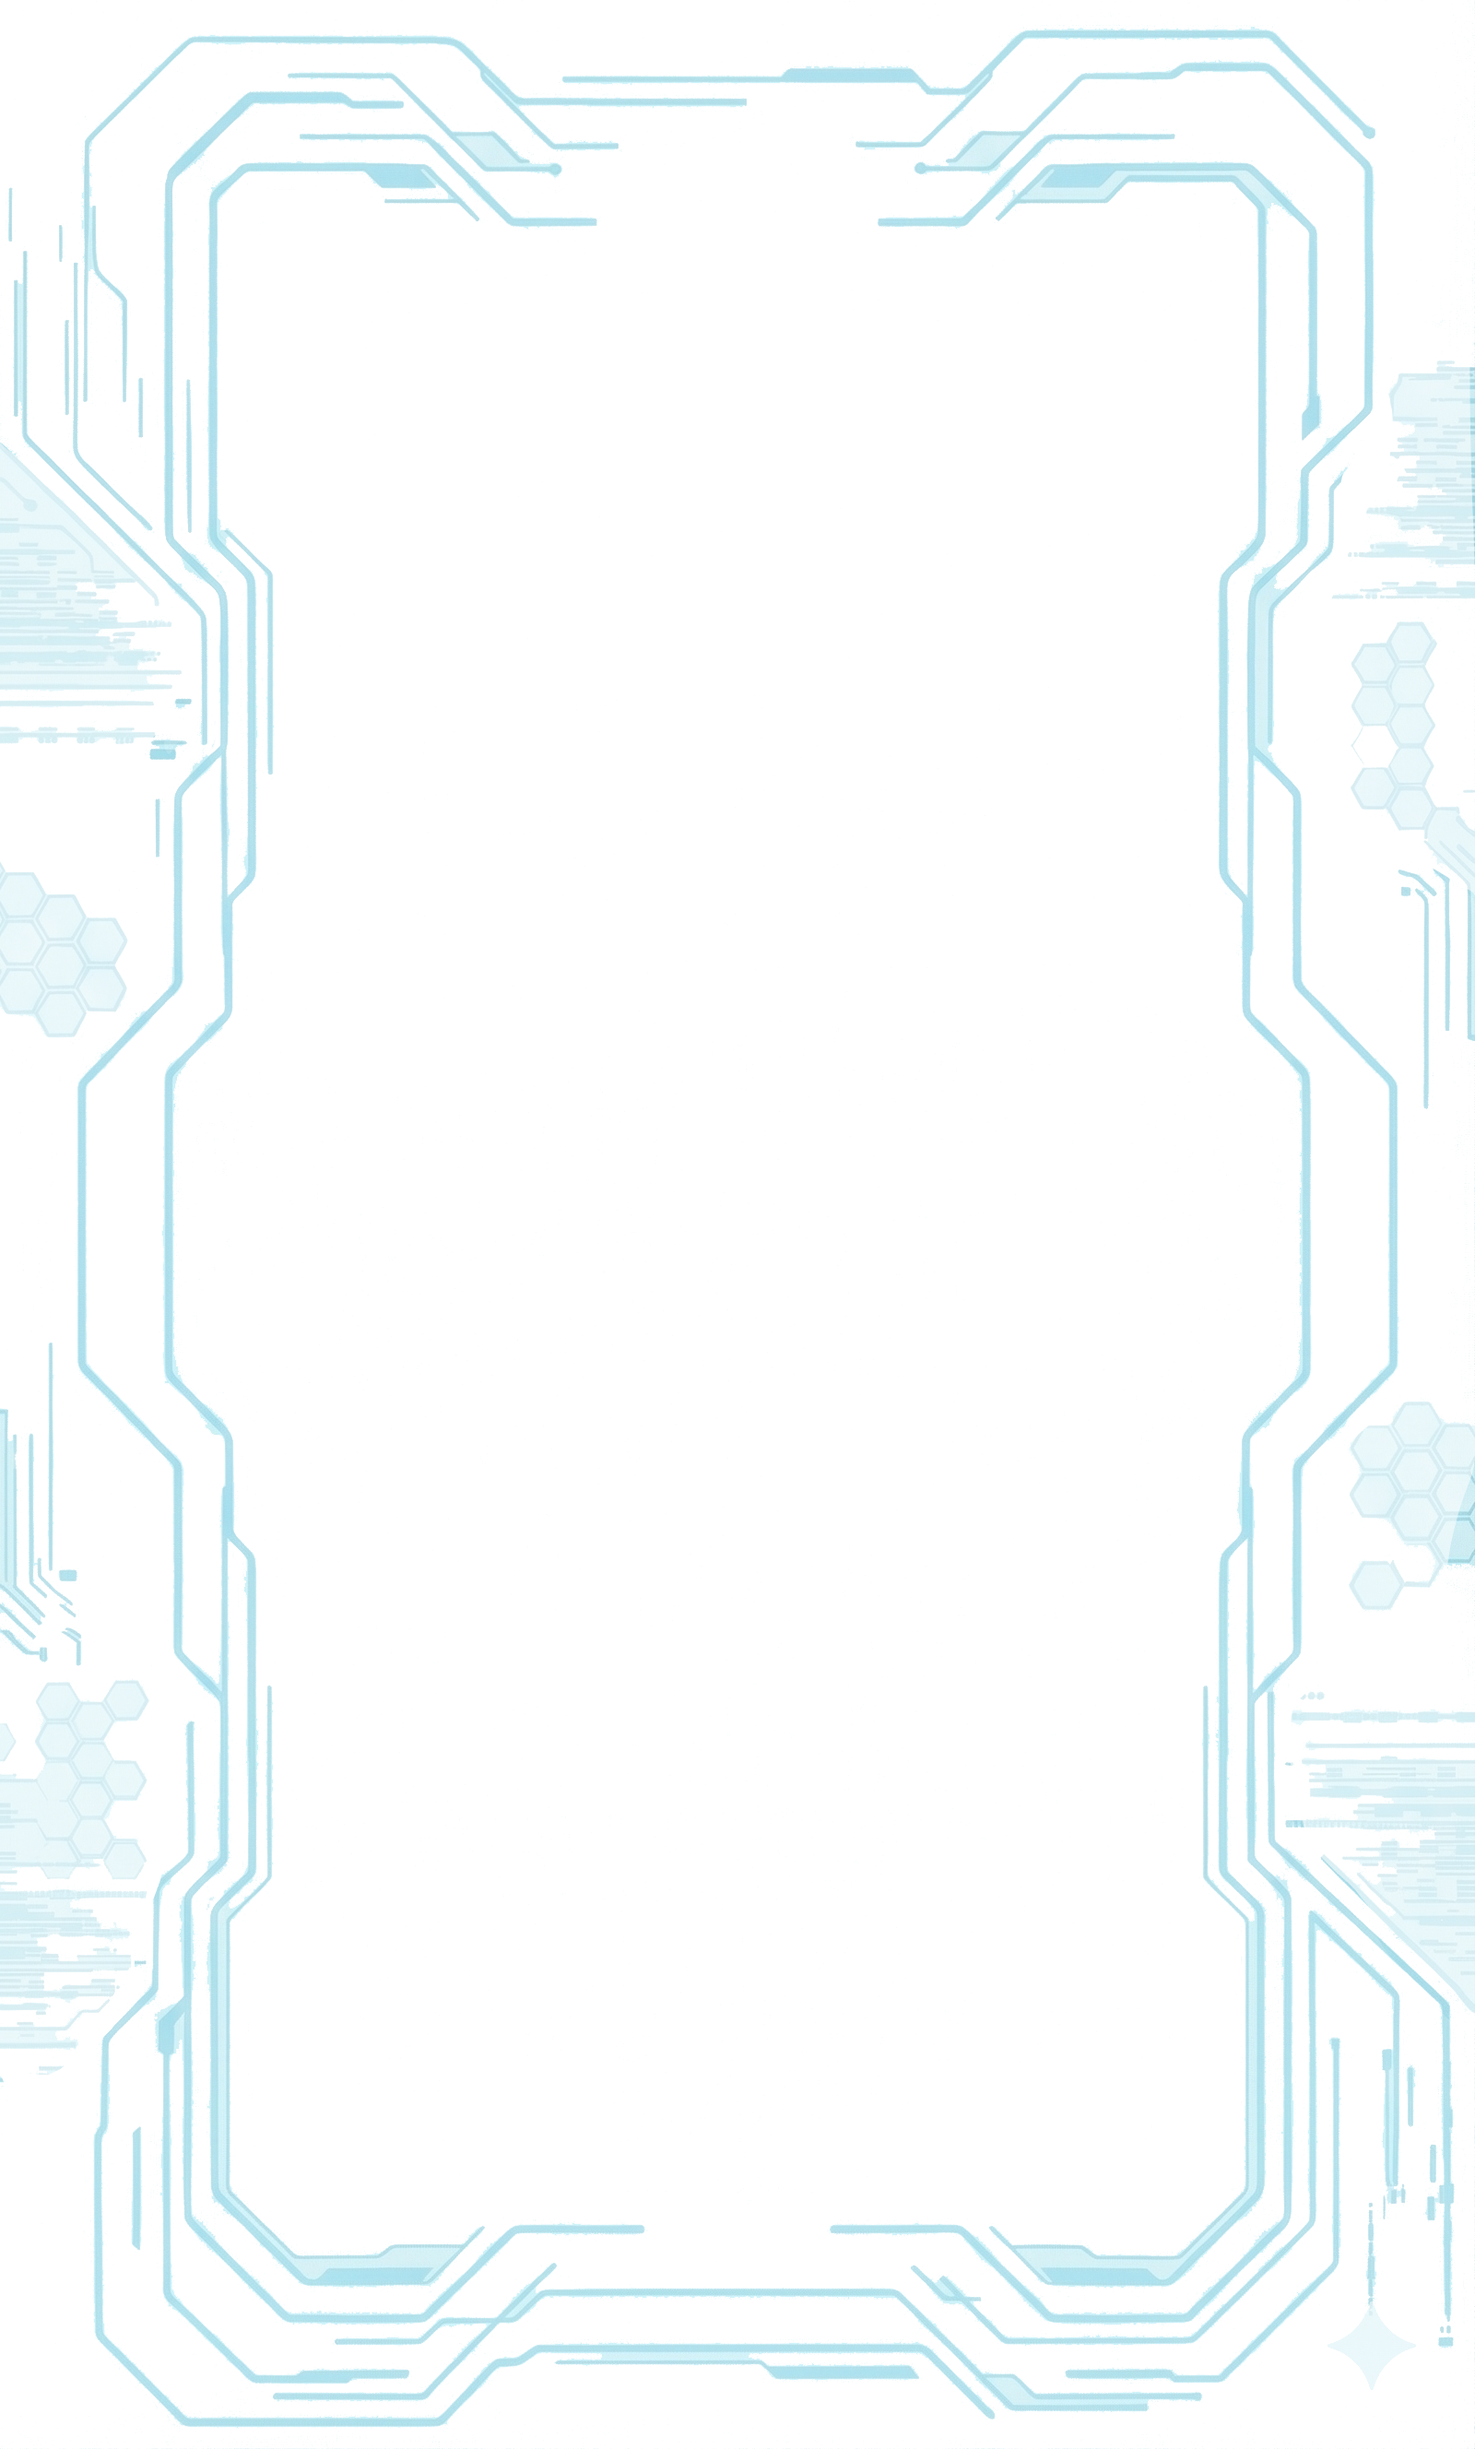
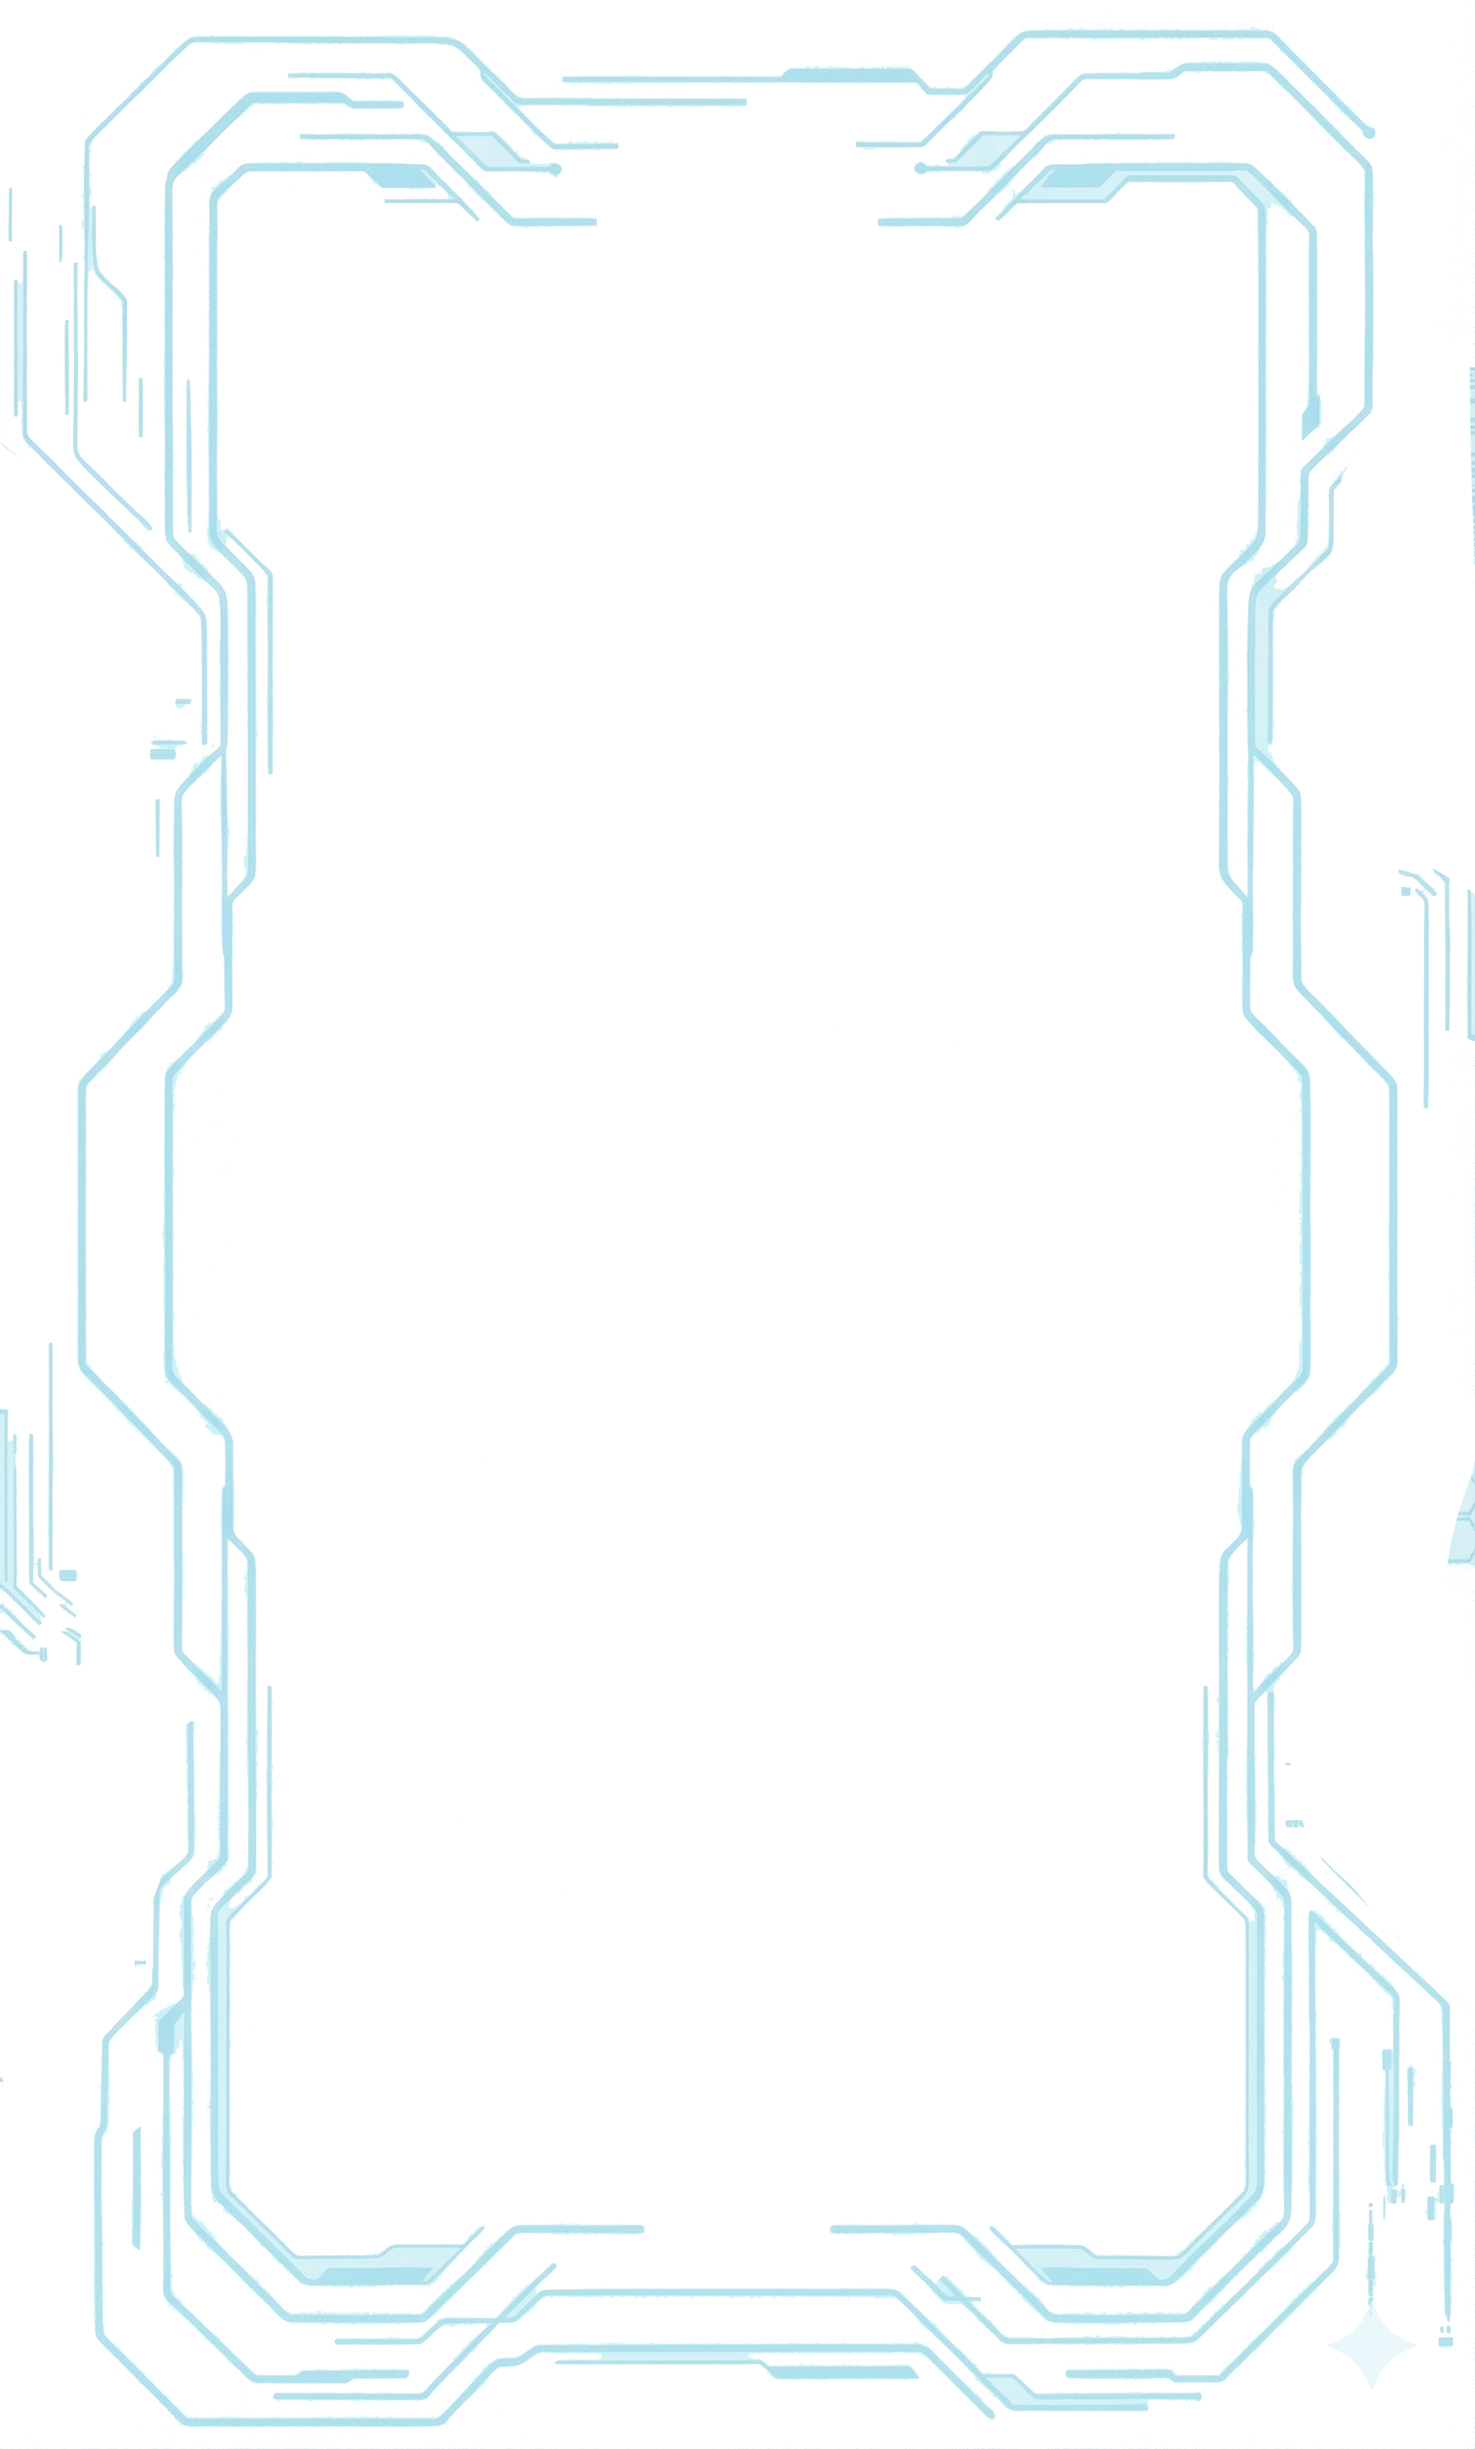
Add files via upload

diff --git a/index2.html b/index2.html
@@ -40,7 +40,7 @@
       left: 0;
       width: 100%;
       height: 100%;
-      background-image: url('https://samurai-security.github.io/AR-test/bg.png');
+      background-image: url('https://samurai-security.github.io/AR-test/bg2.png');
       background-size: 100% 100%;
       background-repeat: no-repeat;
       z-index: 1;
